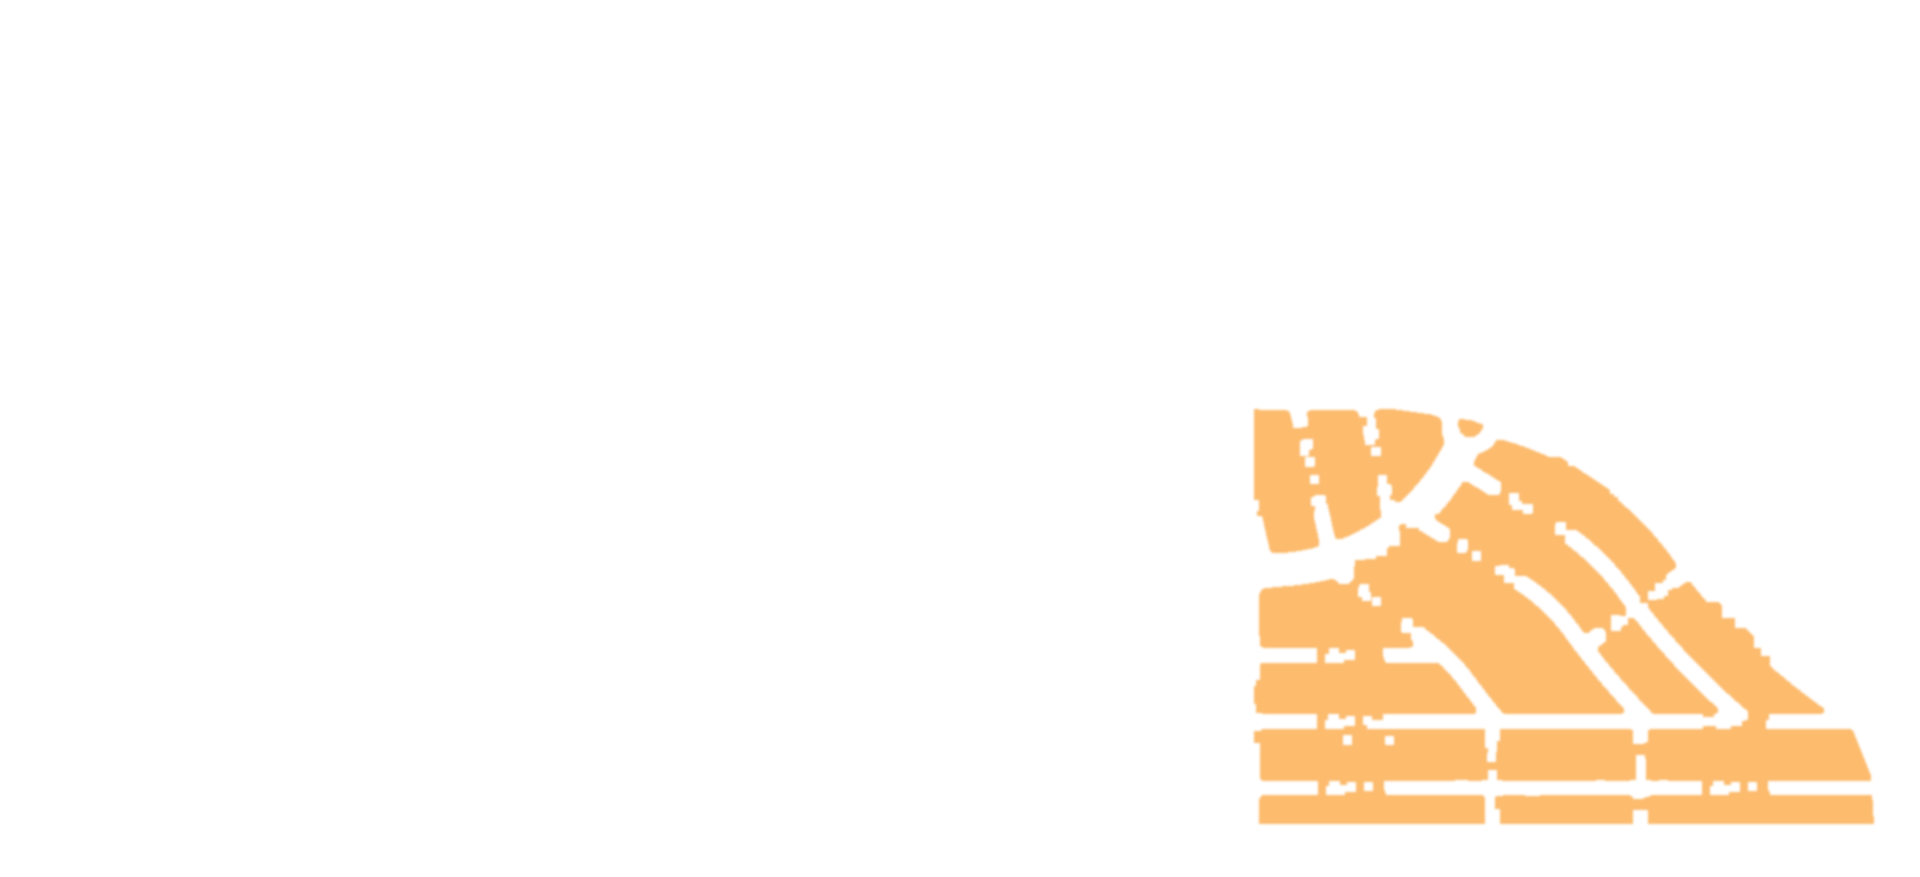
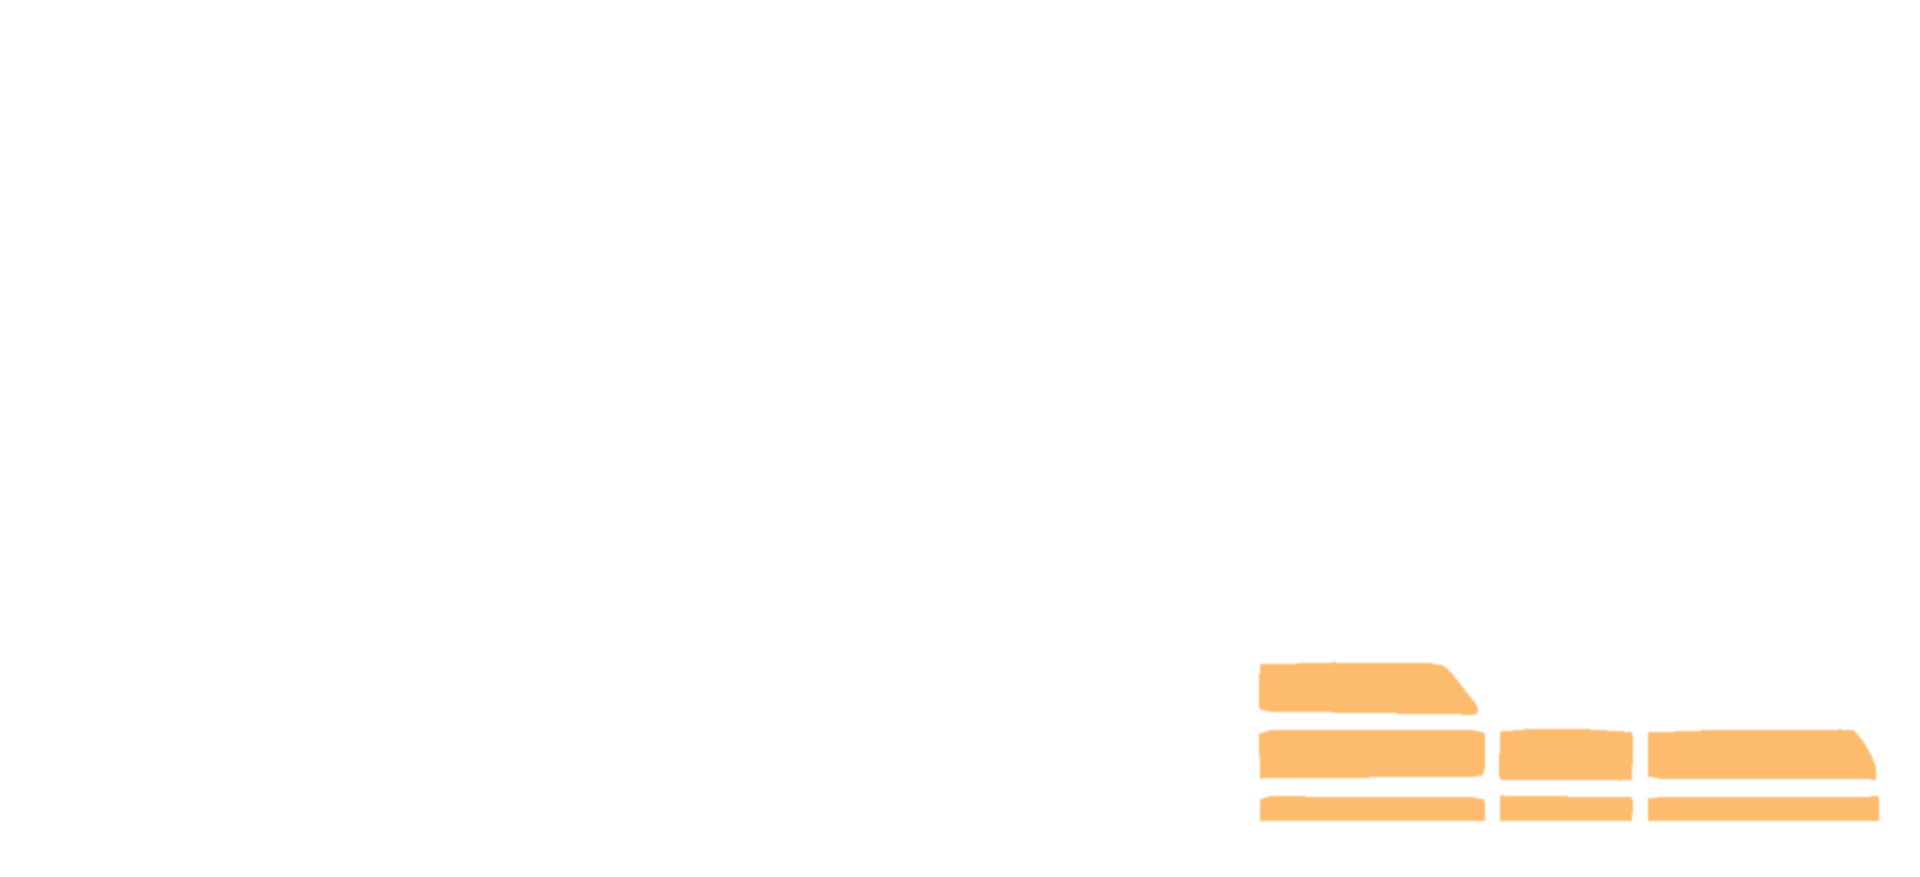
fix(meeting): ajustes do comercial no Parque Norte
- modulação pinta só as quadras com casa desenhada
- planta sem área construída, quintal e esquadria
- sai decorado, stand e comissão; demanda mínima 90
- documentação grátis sem valor e sem ITBI
- cenas novas: logo, marketing em ação, leads 30% e decorado aberto

Changed region(s): [[0.625, 0.4618, 1.0, 0.9544]]

diff --git a/public/meeting/parque-norte-v8AJc2KfXs/index.html b/public/meeting/parque-norte-v8AJc2KfXs/index.html
@@ -151,7 +151,7 @@ body.ui #hint{opacity:.7}
 .sc-verde .chip .ico{background:var(--ouro)}
 .wm{position:absolute;z-index:1;opacity:.07;pointer-events:none}
 /* ============ 1 CAPA (book p.1) ============ */
-#s-capa .arc{fill:none;stroke:var(--lar);stroke-linecap:butt}
+#s-capa .arc,#s-logo .arc{fill:none;stroke:var(--lar);stroke-linecap:butt}
 #s-capa .logo{width:calc(var(--u)*585)}
 .scene.active#s-capa .blink{animation:blink 2.4s ease-in-out 2s infinite}
 @keyframes blink{0%,100%{opacity:.3}50%{opacity:.9}}
@@ -199,6 +199,10 @@ body.ui #hint{opacity:.7}
   linear-gradient(180deg,#d3e4ea 0%,#e9f0f2 55%,#f1f3f3 100%)!important}
 /* ============ DECORADO ============ */
 .dec-wrap{position:relative;margin-top:clamp(14px,2.4vh,26px);height:min(60vh,620px)}
+.mk-ph{margin:0;height:clamp(200px,40dvh,430px)}
+.mk-ph img{width:100%;height:100%;object-fit:cover}
+.mk-tag{position:absolute;left:14px;bottom:14px;background:#fff;color:var(--verde);font-weight:800;border-radius:999px;padding:.45em 1em;font-size:clamp(14px,calc(1.3*var(--vw)),19px);box-shadow:0 8px 20px rgba(0,0,0,.18)}
+.mk-h{font-size:clamp(17px,calc(1.6*var(--vw)),23px);color:var(--verde)}
 .dec-page{position:absolute;inset:0;display:grid;grid-template-columns:repeat(3,1fr);gap:clamp(10px,calc(1.4*var(--vw)),22px);opacity:0;transition:opacity .6s ease;pointer-events:none}
 .dec-page.show{opacity:1}
 .dec-page .ph{border-radius:18px;overflow:hidden;box-shadow:0 22px 50px rgba(0,50,25,.2);background:#fff}
@@ -619,14 +623,12 @@ body.ui #hint{opacity:.7}
       <h2 class="h-big rv d1">Feita para<br><span class="green">viver bem</span></h2>
       <div class="mt2">
         <div class="ck rv d2"><span class="bx">2</span>Dormitórios</div>
-        <div class="ck rv d2"><span class="bx">✓</span>44,03 m² construídos</div>
         <div class="ck rv d3"><span class="bx">✓</span>Sala e cozinha integradas</div>
         <div class="ck rv d4"><span class="bx">✓</span>Banheiro e área de serviço</div>
-        <div class="ck rv d5"><span class="bx">✓</span>Quintal no lote de 240 m²</div>
+        <div class="ck rv d5"><span class="bx">✓</span>Lote de 240 m²</div>
       </div>
       <div class="row mt2">
         <span class="chip rv d6"><span class="ico"></span>Piso cerâmico</span>
-        <span class="chip rv d7"><span class="ico"></span>Esquadrias de aço</span>
         <span class="chip rv d8"><span class="ico"></span>Caixa d'água de 500 L</span>
         <span class="chip rv d9"><span class="ico"></span>Adaptáveis PNE</span>
       </div>
@@ -667,51 +669,9 @@ body.ui #hint{opacity:.7}
   </div>
 </section>
 
-<!-- 13 DECORADO -->
-<section class="scene" id="s-decorado" data-title="Decorado" data-steps="2">
-  <div class="wrap">
-    <div style="display:flex;justify-content:space-between;align-items:flex-end;gap:24px;flex-wrap:wrap">
-      <div>
-        <div class="eyebrow rv"><span class="tick"></span>Fotos reais</div>
-        <h2 class="h-med rv d1">O decorado já está <span class="gold">pronto</span></h2>
-      </div>
-      <span class="chip rv d2"><span class="ico"></span>Visite no stand de vendas, em Sinop</span>
-    </div>
-    <div class="dec-wrap rv d3">
-      <div class="dec-page show">
-        <div class="ph"><img src="a/o_dec21.jpg" alt="Sala do decorado"></div>
-        <div class="ph"><img src="a/o_dec22.jpg" alt="Cozinha do decorado"></div>
-        <div class="ph"><img src="a/o_dec23.jpg" alt="Quarto do decorado"></div>
-      </div>
-      <div class="dec-page">
-        <div class="ph"><img src="a/o_dec24.jpg" alt="Sala de jantar do decorado"></div>
-        <div class="ph"><img src="a/o_dec25.jpg" alt="Banheiro do decorado"></div>
-        <div class="ph"><img src="a/o_dec26.jpg" alt="Área de serviço do decorado"></div>
-      </div>
-    </div>
-    <div id="dec-steps"><i class="cur"></i><i></i></div>
-  </div>
-</section>
 
-<!-- 14 STAND -->
-<section class="scene" id="s-stand" data-title="Stand de vendas">
-  <div class="wrap split">
-    <div>
-      <div class="eyebrow rv"><span class="tick"></span>Stand de vendas</div>
-      <h2 class="h-big rv d1">Leve o cliente para<br><span class="green">sentir a casa</span></h2>
-      <p class="lead mt1 rv d2">O <b>decorado completo</b> está montado no stand de vendas do Parque Norte, em Sinop. Cliente que visita, <b>se imagina morando</b>.</p>
-      <div class="card hl mt2 rv d3">
-        <div class="klab" style="margin:0 0 6px">Agende visitas e tire dúvidas pelo WhatsApp do produto</div>
-        <div class="knum" style="font-size:clamp(38px,calc(4.4*var(--vw)),74px)">66 99927-9467</div>
-      </div>
-      <div class="row mt2">
-        <span class="chip rv d5"><span class="ico"></span>www.menin.com.br</span>
-        <span class="chip rv d6"><span class="ico"></span>Instagram: @meninengenharia</span>
-      </div>
-    </div>
-    <div class="photo rv pop d3" style="max-width:min(40vh,86%);justify-self:center"><img src="a/o_dec27.jpg" alt="Decorado no stand de vendas"></div>
-  </div>
-</section>
+
+
 
 <!-- 15 LOCALIZAÇÃO · book p.15 -->
 <section class="scene" id="s-local" data-title="Localização" style="background:#6d8fb8">
@@ -735,7 +695,7 @@ body.ui #hint{opacity:.7}
   <div class="wrap">
     <div class="eyebrow rv d1">Agora, o que interessa</div>
     <h2 class="h-mega rv pop d2" style="margin-top:2vh">ESTRATÉGIA<br>COMERCIAL</h2>
-    <div class="sub rv d4">números &middot; condições &middot; campanhas &middot; comissão</div>
+    <div class="sub rv d4">números &middot; condições &middot; campanhas</div>
   </div>
 </section>
 
@@ -852,14 +812,10 @@ body.ui #hint{opacity:.7}
     <div>
       <div class="eyebrow rv"><span class="tick"></span>Campanha</div>
       <h2 class="h-big rv d1">Documentação<br><span class="gold">grátis</span></h2>
-      <div class="card hl mt2 rv d2">
-        <div class="knum">+ R$ <span data-count="3632"></span></div>
-        <div class="klab">em custos de documentação por conta da Menin &middot; <b style="color:var(--ink)">o cliente paga R$&nbsp;0</b></div>
-      </div>
+      <p class="lead mt1 rv d2">Os custos de documentação ficam <b>por conta da Menin</b>.</p>
     </div>
     <div class="card mt1 rv d3" style="padding-top:8px;padding-bottom:8px">
       <div class="ck rv d3"><span class="bx">✓</span>Produto Caixa Econômica</div>
-      <div class="ck rv d4"><span class="bx">✓</span>ITBI isento</div>
       <div class="ck rv d5"><span class="bx">✓</span>Registro e prenotação em cartório</div>
       <div class="ck rv d6"><span class="bx">✓</span>Certificação digital</div>
     </div>
@@ -867,22 +823,20 @@ body.ui #hint{opacity:.7}
   <p class="cc">*Consulte condições.</p>
 </section>
 
-<!-- 24 COMISSÃO -->
-<section class="scene sc-verde" id="s-comissao" data-title="Comissão" data-steps="2">
-  <div class="wrap" style="text-align:center">
-    <div class="step1">
-      <div class="eyebrow rv">Comissão</div>
-      <h2 class="h-mega rv pop d1" style="margin-top:1.5vh"><span style="color:var(--ouro)">3%</span> <span style="font-size:.36em;letter-spacing:-.01em">sobre R$ 210 mil</span></h2>
-      <p class="lead rv d3" style="margin:1.5vh auto 0;max-width:none;font-weight:700;color:#fff">R$ 6.300 por venda</p>
-    </div>
-    <div class="step2 mt2">
-      <div class="eyebrow">O Módulo 1 (427 casas) soma</div>
-      <div class="big-money">R$ <span id="comi-total">0</span></div>
-      <div class="caps mt1">em comissões</div>
-    </div>
+<!-- LOGO PARQUE NORTE (depois da documentação) -->
+<section class="scene" id="s-logo" data-title="Parque Norte" style="overflow:hidden">
+  <div class="board">
+    <svg class="fill" viewBox="0 0 1152 648" style="overflow:visible">
+      <path class="arc draw" pathLength="1" d="M105 722 A965 965 0 0 1 125 -48" stroke-width="60"/>
+      <path class="arc draw d4" pathLength="1" d="M725 820 A410 410 0 0 1 1495 820" stroke-width="130"/>
+    </svg>
+    <img class="ab rv pop d1" style="--x:258;--y:150;--w:670" src="a/logo_pn.png" alt="Residencial Parque Norte · Canarinho 3">
+    <img class="ab rv d5" style="--x:492;--y:520;--w:200" src="a/menin_preto.png" alt="Menin">
   </div>
-  <p class="cc">*Consulte condições.</p>
 </section>
+
+
+
 
 <!-- 25 ROLETA -->
 <section class="scene sc-verde" id="s-roleta" data-title="Roleta da sorte" data-steps="2">
@@ -984,7 +938,7 @@ body.ui #hint{opacity:.7}
       <div class="card rv d2"><h3 style="font-size:clamp(17px,calc(1.6*var(--vw)),23px);color:var(--verde)">Valor de venda</h3><div class="klab">R$ 235.000 &middot; com R$ 25 mil de desconto construtora, sai por R$ 210.000</div></div>
       <div class="card rv d3"><h3 style="font-size:clamp(17px,calc(1.6*var(--vw)),23px);color:var(--verde)">Financiamento</h3><div class="klab">Caixa Econômica &middot; MCMV Faixa 2</div></div>
       <div class="card rv d4"><h3 style="font-size:clamp(17px,calc(1.6*var(--vw)),23px);color:var(--verde)">Decorado pronto</h3><div class="klab">casa decorada no stand, em Sinop</div></div>
-      <div class="card rv d5"><h3 style="font-size:clamp(17px,calc(1.6*var(--vw)),23px);color:var(--verde)">Demanda mínima</h3><div class="klab">86 unidades &middot; assinatura fracionada</div></div>
+      <div class="card rv d5"><h3 style="font-size:clamp(17px,calc(1.6*var(--vw)),23px);color:var(--verde)">Demanda mínima</h3><div class="klab">90 unidades &middot; assinatura fracionada</div></div>
       <div class="card rv d6"><h3 style="font-size:clamp(17px,calc(1.6*var(--vw)),23px);color:var(--verde)">Entrega</h3><div class="klab">24 meses após assinatura do contrato Caixa</div></div>
       <div class="card hl rv d7"><h3 style="font-size:clamp(17px,calc(1.6*var(--vw)),23px);color:var(--verde)">WhatsApp do produto</h3><div class="klab">66 99927-9467</div></div>
     </div>
@@ -1004,6 +958,34 @@ body.ui #hint{opacity:.7}
       <div class="card st rv d5"><div class="num">04</div><h3>Repasse</h3><p>Contratação com a Caixa e registro do contrato</p></div>
     </div>
     <div class="row mt2"><span class="chip rv d6"><span class="ico"></span>Acessos e treinamentos: fale com o gestor do produto</span></div>
+  </div>
+</section>
+
+<!-- MARKETING EM AÇÃO (o que já está na rua) -->
+<section class="scene" id="s-mkt-acao" data-title="Marketing em ação">
+  <div class="wrap">
+    <div class="eyebrow rv"><span class="tick"></span>Marketing &middot; o que já está sendo feito</div>
+    <h2 class="h-med rv d1">O Parque Norte já está <span class="green">na rua</span></h2>
+    <div class="grid mt2" style="grid-template-columns:1.25fr 1fr;align-items:stretch">
+      <div class="photo rv pop d2 mk-ph"><img src="a/m_outdoor.jpg" alt="Outdoors do Parque Norte na rodovia, em Sinop"><span class="mk-tag">Outdoor</span></div>
+      <div class="photo rv pop d3 mk-ph"><img src="a/m_panfleto.jpg" alt="Panfleto do Parque Norte"><span class="mk-tag">Panfleto</span></div>
+    </div>
+    <div class="grid mt1" style="grid-template-columns:repeat(3,1fr)">
+      <div class="card rv d4"><h3 class="mk-h">Brinde do cliente</h3><div class="klab">exclusivo Parque Norte</div></div>
+      <div class="card rv d5"><h3 class="mk-h">TV</h3><div class="klab">campanha em veiculação</div></div>
+      <div class="card rv d6"><h3 class="mk-h">Rádio</h3><div class="klab">testemunhais no programa Paixão Sertaneja</div></div>
+    </div>
+  </div>
+</section>
+
+<!-- LEADS: conversão em reserva -->
+<section class="scene sc-verde" id="s-leads" data-title="Leads que viram reserva">
+  <img class="wm" src="a/icon_pn_branco.png" alt="" style="right:-6vw;bottom:-12vh;width:46vw">
+  <div class="wrap" style="text-align:center">
+    <div class="eyebrow rv d1">Leads gerados pela Menin</div>
+    <div class="big-money rv pop d2" style="margin-top:1.5vh"><span data-count="30"></span>%</div>
+    <div class="caps mt1 rv d4">já viraram reserva</div>
+    <p class="lead rv d5" style="margin:2vh auto 0">O marketing gera o contato, <b>o corretor fecha</b>.</p>
   </div>
 </section>
 
@@ -1041,6 +1023,18 @@ body.ui #hint{opacity:.7}
     <img class="rv d5" src="a/menin_branco.png" alt="Menin" style="height:clamp(34px,calc(4.4*var(--vw)),62px);margin-top:1vh">
   </div>
 </section>
+
+<!-- DECORADO ABERTO (última cena) -->
+<section class="scene sc-verde" id="s-aberto" data-title="Decorado aberto">
+  <div class="bgimg kb" style="background-image:url(a/r_sala.jpg);opacity:.25;mix-blend-mode:luminosity"></div>
+  <div class="wrap" style="text-align:center;display:flex;flex-direction:column;align-items:center;gap:2.4vh">
+    <div class="eyebrow rv d1">Sinop/MT</div>
+    <h2 class="h-big rv pop d2" style="line-height:1">ABERTO OFICIALMENTE</h2>
+    <div class="caps rv d4" style="color:#fff">o decorado</div>
+    <img class="rv pop d5" src="a/logo_pn_branco.png" alt="Parque Norte" style="width:min(420px,32vw)">
+  </div>
+</section>
+
 
 
 
@@ -1098,8 +1092,8 @@ function comReveal(){
 
 /* ---- decorado ---- */
 var decScene = document.getElementById('s-decorado');
-var decPages = decScene.querySelectorAll('.dec-page');
-var decDots = document.getElementById('dec-steps').children;
+var decPages = decScene ? decScene.querySelectorAll('.dec-page') : [];
+var decDots = decScene ? document.getElementById('dec-steps').children : [];
 var decIdx = 0;
 function decShow(i){
   decIdx = i;
@@ -1293,7 +1287,7 @@ function go(n){
   runCounters(sc);
   if(sc.id==='s-recurso') runSim(sc);
   if(sc===azScene) azRun(); else { azT.forEach(clearTimeout); azT = []; }
-  if(sc.id==='s-final') gentleConfetti(); else { stopGentle(); parts.length = 0; }
+  if(sc.id==='s-final'||sc.id==='s-aberto') gentleConfetti(); else { stopGentle(); parts.length = 0; }
 }
 function next(){
   var sc = scenes[cur];
